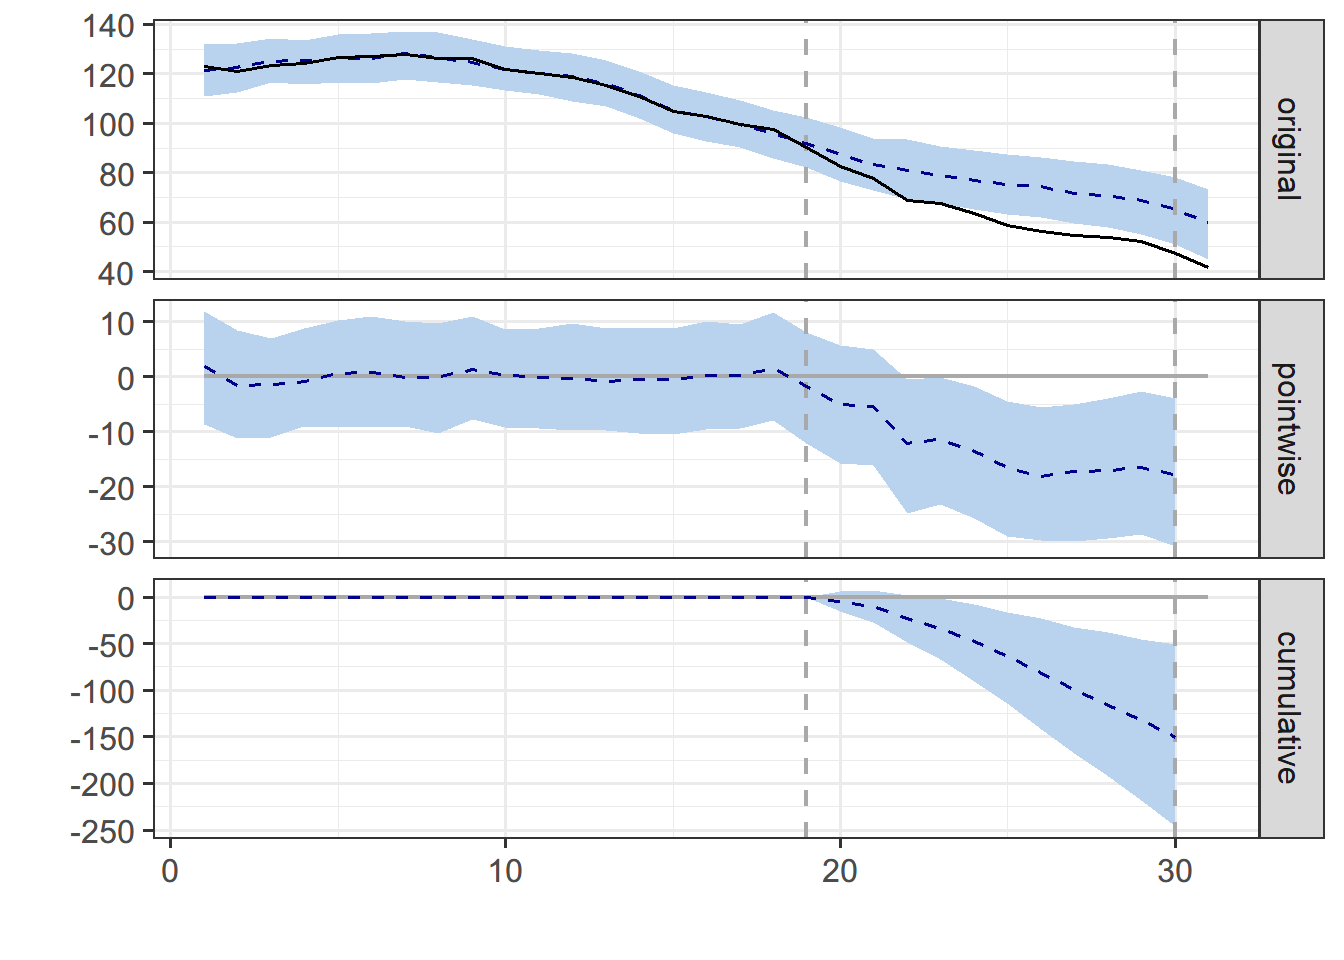
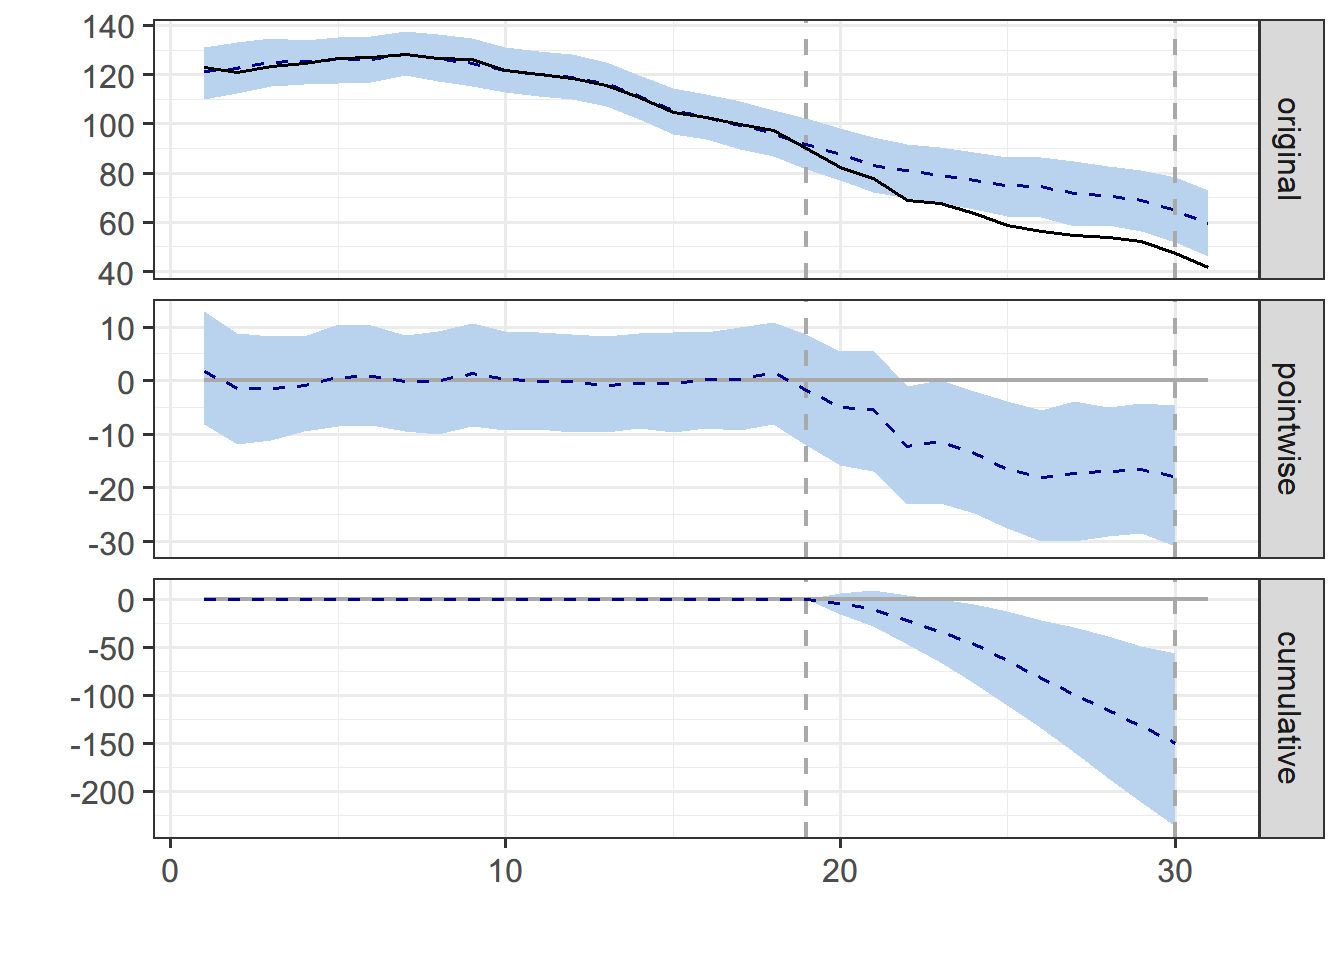
更新了一篇文章

diff --git a/Econ/ita/index.html b/Econ/ita/index.html
@@ -43,12 +43,14 @@
 </div>
 <div id="当只有一个研究组无对照组时标准itsa回归模型采用以下形式" class="section level3">
 <h3>当只有一个研究组（无对照组）时，标准ITSA回归模型采用以下形式</h3>
-<p><span class="math display">\[Y_{t}=\beta_{0}+\beta_{1} T_{t}+\beta_{2} X_{t}+\beta_{3} X_{t} T_{t}+\epsilon_{t}\]</span>
-- 其中<span class="math inline">\(Y_t\)</span>为每个等距时间点t上测量的结果变量
-- <span class="math inline">\(T_t\)</span>是从研究开始的时间趋势
-- <span class="math inline">\(X_t\)</span>是一个虚拟变量去衡量政策干预(intervention)(干预之前为0，干预之后为1)
-- <span class="math inline">\(X_tT_t\)</span>是交互项，用来表示干预后的趋势 我们在这里假设模型服从AR(1)
-使用使用<a href="https://en.wikipedia.org/wiki/1988_California_Proposition_99">1988 California Proposition 99</a>,烟草税与健康保护法为例，先实现ITSA方法以及使用谷歌开发的CausalImpact测试<a href="https://google.github.io/CausalImpact/CausalImpact.html">Bayesian structural time-series models</a></p>
+<p><span class="math display">\[Y_{t}=\beta_{0}+\beta_{1} T_{t}+\beta_{2} X_{t}+\beta_{3} X_{t} T_{t}+\epsilon_{t}\]</span></p>
+<ul>
+<li>其中<span class="math inline">\(Y_t\)</span>为每个等距时间点t上测量的结果变量</li>
+<li><span class="math inline">\(T_t\)</span>是从研究开始的时间趋势</li>
+<li><span class="math inline">\(X_t\)</span>是一个虚拟变量去衡量政策干预(intervention)(干预之前为0，干预之后为1)</li>
+<li><span class="math inline">\(X_tT_t\)</span>是交互项，用来表示干预后的趋势 我们在这里假设模型服从AR(1)</li>
+</ul>
+<p>我们使用<a href="https://en.wikipedia.org/wiki/1988_California_Proposition_99">1988 California Proposition 99</a>,烟草税与健康保护法为例，先实现ITSA方法以及使用谷歌开发的CausalImpact测试<a href="https://google.github.io/CausalImpact/CausalImpact.html">Bayesian structural time-series models</a></p>
 <p>调包侠开始表演</p>
 <pre class="r"><code>library(tidyverse)
 library(sandwich)
@@ -172,14 +174,14 @@ impact &lt;- CausalImpact(cig_c_Cas, pre.period ,post.period)</code></pre>
 ## 
 ##                          Average        Cumulative  
 ## Actual                   62             683         
-## Prediction (s.d.)        90 (3.9)       985 (43.0)  
-## 95% CI                   [82, 97]       [903, 1069] 
+## Prediction (s.d.)        90 (4)         985 (44)    
+## 95% CI                   [82, 98]       [903, 1076] 
 ##                                                     
-## Absolute effect (s.d.)   -27 (3.9)      -302 (43.0) 
-## 95% CI                   [-35, -20]     [-386, -220]
+## Absolute effect (s.d.)   -27 (4)        -302 (44)   
+## 95% CI                   [-36, -20]     [-393, -220]
 ##                                                     
-## Relative effect (s.d.)   -31% (4.4%)    -31% (4.4%) 
-## 95% CI                   [-39%, -22%]   [-39%, -22%]
+## Relative effect (s.d.)   -31% (4.5%)    -31% (4.5%) 
+## 95% CI                   [-40%, -22%]   [-40%, -22%]
 ## 
 ## Posterior tail-area probability p:   0.001
 ## Posterior prob. of a causal effect:  99.9%
@@ -336,17 +338,17 @@ impact &lt;- CausalImpact(data, pre.period ,post.period)</code></pre>
 ## 
 ##                          Average         Cumulative   
 ## Actual                   62              683          
-## Prediction (s.d.)        76 (4.3)        833 (46.9)   
-## 95% CI                   [67, 84]        [734, 929]   
+## Prediction (s.d.)        76 (4.2)        833 (46.5)   
+## 95% CI                   [67, 84]        [739, 919]   
 ##                                                       
-## Absolute effect (s.d.)   -14 (4.3)       -151 (46.9)  
-## 95% CI                   [-22, -4.6]     [-246, -51.0]
+## Absolute effect (s.d.)   -14 (4.2)       -151 (46.5)  
+## 95% CI                   [-21, -5.1]     [-236, -56.5]
 ##                                                       
 ## Relative effect (s.d.)   -18% (5.6%)     -18% (5.6%)  
-## 95% CI                   [-30%, -6.1%]   [-30%, -6.1%]
+## 95% CI                   [-28%, -6.8%]   [-28%, -6.8%]
 ## 
-## Posterior tail-area probability p:   0.002
-## Posterior prob. of a causal effect:  99.7996%
+## Posterior tail-area probability p:   0.001
+## Posterior prob. of a causal effect:  99.8998%
 ## 
 ## For more details, type: summary(impact, &quot;report&quot;)</code></pre>
 </div>
@@ -396,17 +398,17 @@ impact &lt;- CausalImpact(data, pre.period ,post.period)</code></pre>
 ## 
 ##                          Average       Cumulative 
 ## Actual                   62            683        
-## Prediction (s.d.)        68 (14)       746 (157)  
-## 95% CI                   [39, 98]      [431, 1078]
+## Prediction (s.d.)        68 (14)       746 (156)  
+## 95% CI                   [39, 98]      [432, 1080]
 ##                                                   
-## Absolute effect (s.d.)   -5.7 (14)     -63.2 (157)
-## 95% CI                   [-36, 23]     [-395, 251]
+## Absolute effect (s.d.)   -5.7 (14)     -63.2 (156)
+## 95% CI                   [-36, 23]     [-397, 251]
 ##                                                   
 ## Relative effect (s.d.)   -8.5% (21%)   -8.5% (21%)
 ## 95% CI                   [-53%, 34%]   [-53%, 34%]
 ## 
-## Posterior tail-area probability p:   0.32961
-## Posterior prob. of a causal effect:  67%
+## Posterior tail-area probability p:   0.3357
+## Posterior prob. of a causal effect:  66%
 ## 
 ## For more details, type: summary(impact, &quot;report&quot;)</code></pre>
 <div id="如果加入了香烟价格可能法案就没有什么效果了不过这样的分析可能是有问题的因为估计法令就是直接作用与retprice的" class="section level3">
